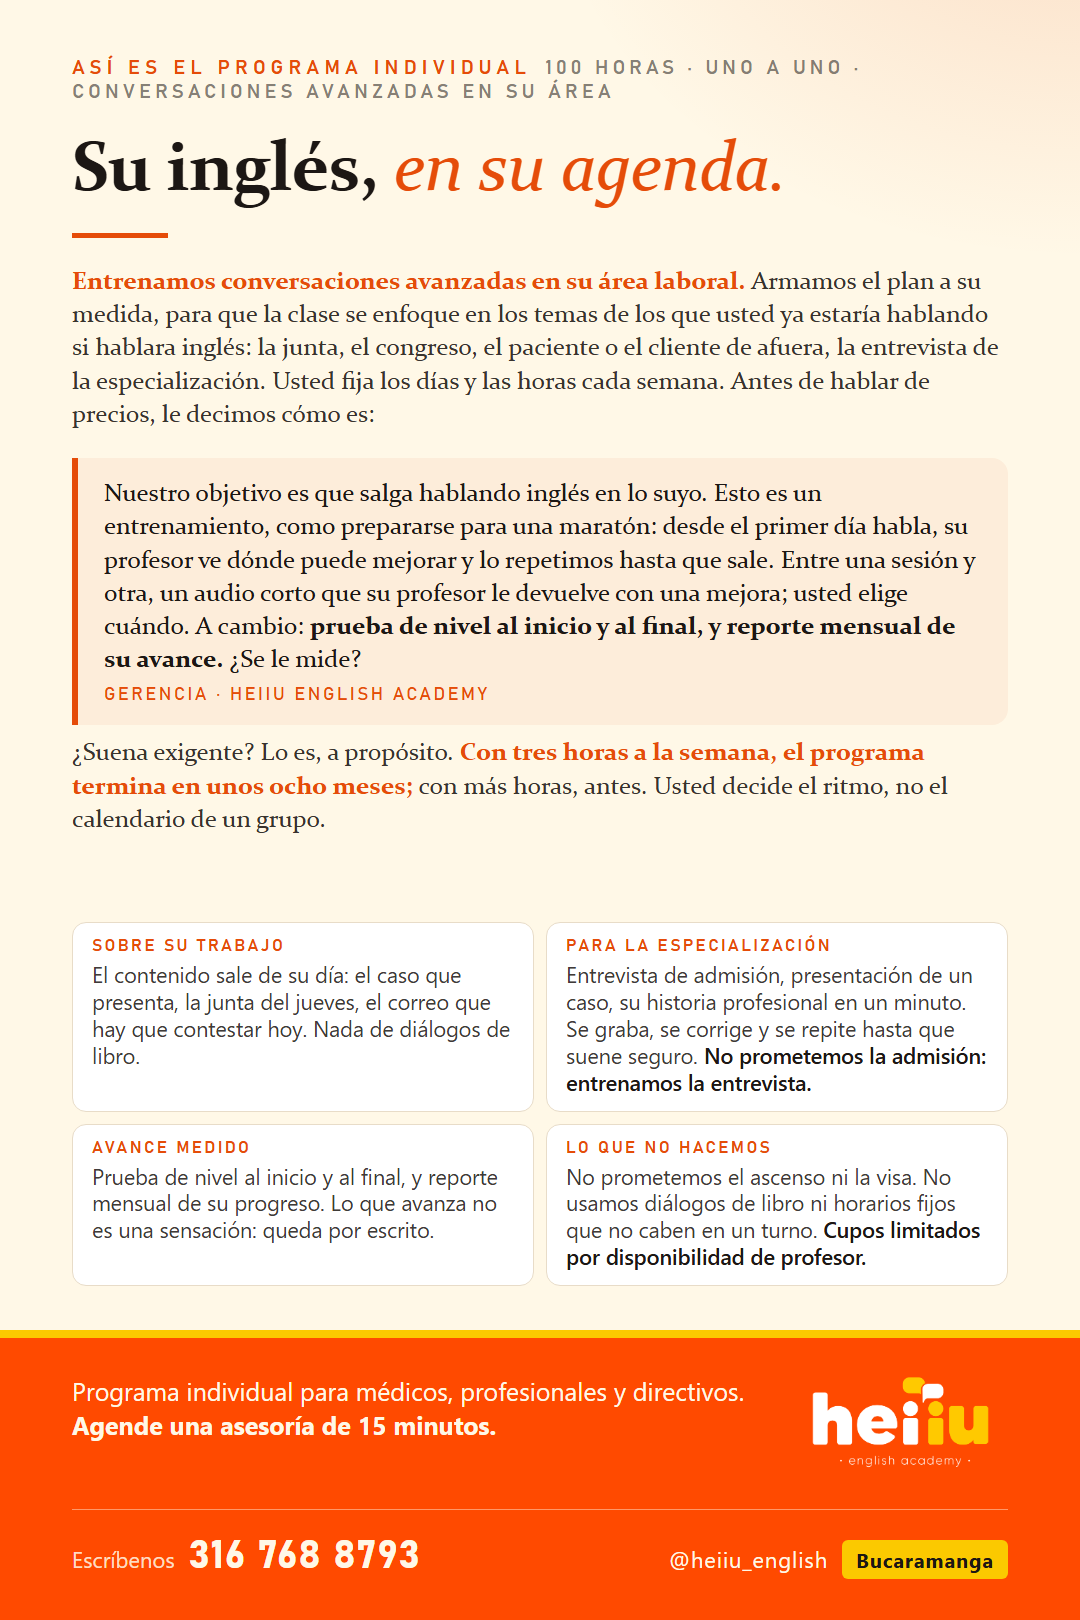
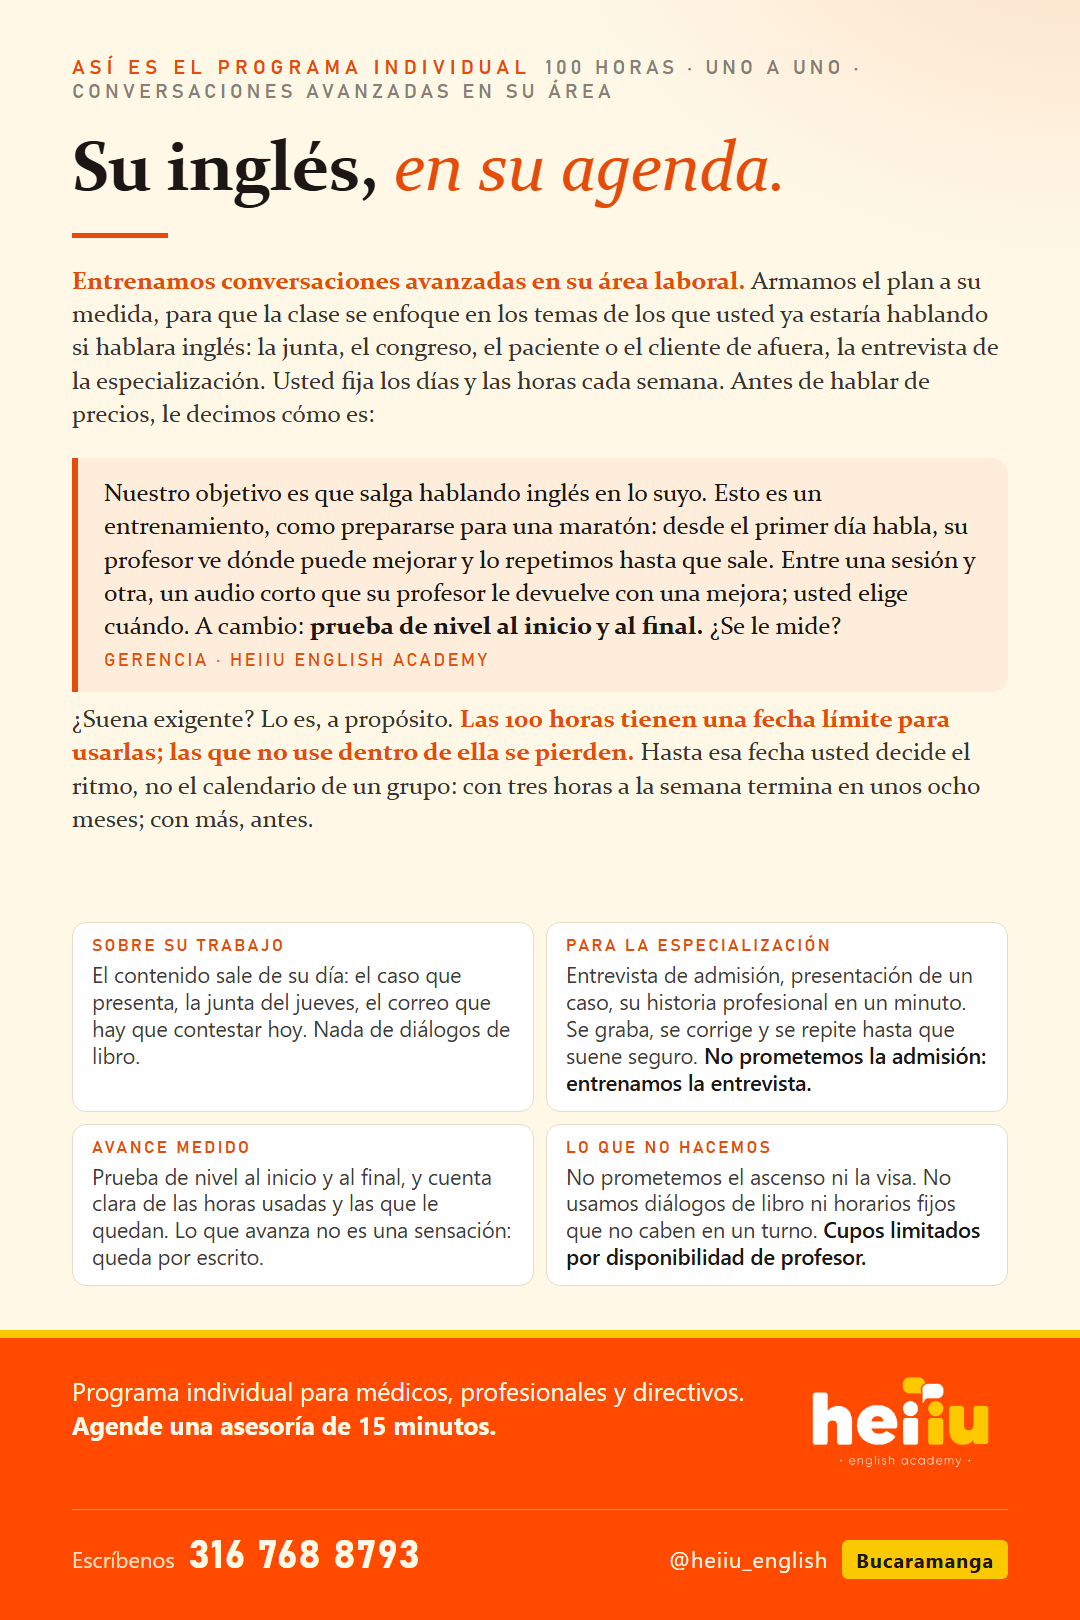
Piezas medicos: fuera el reporte mensual (no existe en el programa individual); entra la vigencia de las 100 horas (las que no se usan se pierden) y la cuenta de horas

Changed region(s): [[0.0611, 0.4012, 0.9167, 0.5247], [0.0917, 0.7099, 0.4583, 0.8025], [0.6417, 0.3704, 0.8861, 0.4012]]

diff --git a/generadores/comercial/gen_piezas_conciencia.py b/generadores/comercial/gen_piezas_conciencia.py
@@ -204,13 +204,13 @@ PIEZAS = {
         intro=('<b>Entrenamos conversaciones avanzadas en su área laboral.</b> Armamos el plan a su medida, para que la clase se enfoque en los temas de los que usted ya estaría hablando si hablara inglés: la junta, el congreso, el paciente o el cliente de afuera, '
                'la entrevista de la especialización. Usted fija los días y las horas cada semana. Antes de hablar de precios, le decimos cómo es:'),
         quote=('Nuestro objetivo es que salga hablando inglés en lo suyo. Esto es un entrenamiento, como prepararse para una maratón: desde el primer día habla, su profesor ve dónde puede mejorar y lo repetimos hasta que sale. '
-               'Entre una sesión y otra, un audio corto que su profesor le devuelve con una mejora; usted elige cuándo. A cambio: <b>prueba de nivel al inicio y al final, y reporte mensual de su avance.</b> ¿Se le mide?'),
+               'Entre una sesión y otra, un audio corto que su profesor le devuelve con una mejora; usted elige cuándo. A cambio: <b>prueba de nivel al inicio y al final.</b> ¿Se le mide?'),
         cite='GERENCIA · HEIIU ENGLISH ACADEMY',
-        after='¿Suena exigente? Lo es, a propósito. <b>Con tres horas a la semana, el programa termina en unos ocho meses;</b> con más horas, antes. Usted decide el ritmo, no el calendario de un grupo.',
+        after='¿Suena exigente? Lo es, a propósito. <b>Las 100 horas tienen una fecha límite para usarlas; las que no use dentro de ella se pierden.</b> Hasta esa fecha usted decide el ritmo, no el calendario de un grupo: con tres horas a la semana termina en unos ocho meses; con más, antes.',
         st=[], lead='', big='', big2='',
         why=[('SOBRE SU TRABAJO', 'El contenido sale de su día: el caso que presenta, la junta del jueves, el correo que hay que contestar hoy. Nada de diálogos de libro.', False),
              ('PARA LA ESPECIALIZACIÓN', 'Entrevista de admisión, presentación de un caso, su historia profesional en un minuto. Se graba, se corrige y se repite hasta que suene seguro. <b>No prometemos la admisión: entrenamos la entrevista.</b>', False),
-             ('AVANCE MEDIDO', 'Prueba de nivel al inicio y al final, y reporte mensual de su progreso. Lo que avanza no es una sensación: queda por escrito.', False),
+             ('AVANCE MEDIDO', 'Prueba de nivel al inicio y al final, y cuenta clara de las horas usadas y las que le quedan. Lo que avanza no es una sensación: queda por escrito.', False),
              ('LO QUE NO HACEMOS', 'No prometemos el ascenso ni la visa. No usamos diálogos de libro ni horarios fijos que no caben en un turno. <b>Cupos limitados por disponibilidad de profesor.</b>', False)],
         band='Programa individual para médicos, profesionales y directivos. <b>Agende una asesoría de 15 minutos.</b>',
         band_px=290),
@@ -295,7 +295,7 @@ PIEZAS = {
         h1='El paciente de afuera ya llegó. <em>¿Le paga la consulta a usted o al que sí habla inglés?</em>',
         st=[('<b>El 92% de los artículos de ciencias de la salud está en inglés.</b>¹ El congreso, el protocolo y la convocatoria llegan primero en ese idioma.'),
             ('<b>En 2025 llegaron a Colombia más extranjeros que nunca, y 1 de cada 5 viene de Estados Unidos.</b>² El paciente de afuera no trae intérprete: pregunta, entiende y decide en inglés.'),
-            ('<b>Entrenamos conversaciones avanzadas en su área laboral:</b> la junta, el congreso, el paciente o el cliente de afuera, la entrevista de la especialización. Plan a su medida y en su agenda, audios entre sesiones que su profesor devuelve con una mejora, y reporte mensual.')],
+            ('<b>Entrenamos conversaciones avanzadas en su área laboral:</b> la junta, el congreso, el paciente o el cliente de afuera, la entrevista de la especialización. Plan a su medida y en su agenda, con audios entre sesiones que su profesor devuelve con una mejora.')],
         lead='Sin inglés no se pierde un título. Se pierden conversaciones: el networking, los resultados que vale la pena contar, entender lo que otros quieren transmitir.',
         big='100 horas, uno a uno. No prometemos la admisión ni el ascenso: entrenamos la entrevista y la junta.',
         big2='Y si tiene una idea de negocio, la trabajamos con usted y la presenta en inglés.', fn='¹ Elsevier, con datos de PubMed. ² Ministerio de Comercio, Industria y Turismo y Migración Colombia, enero a septiembre de 2025.',
